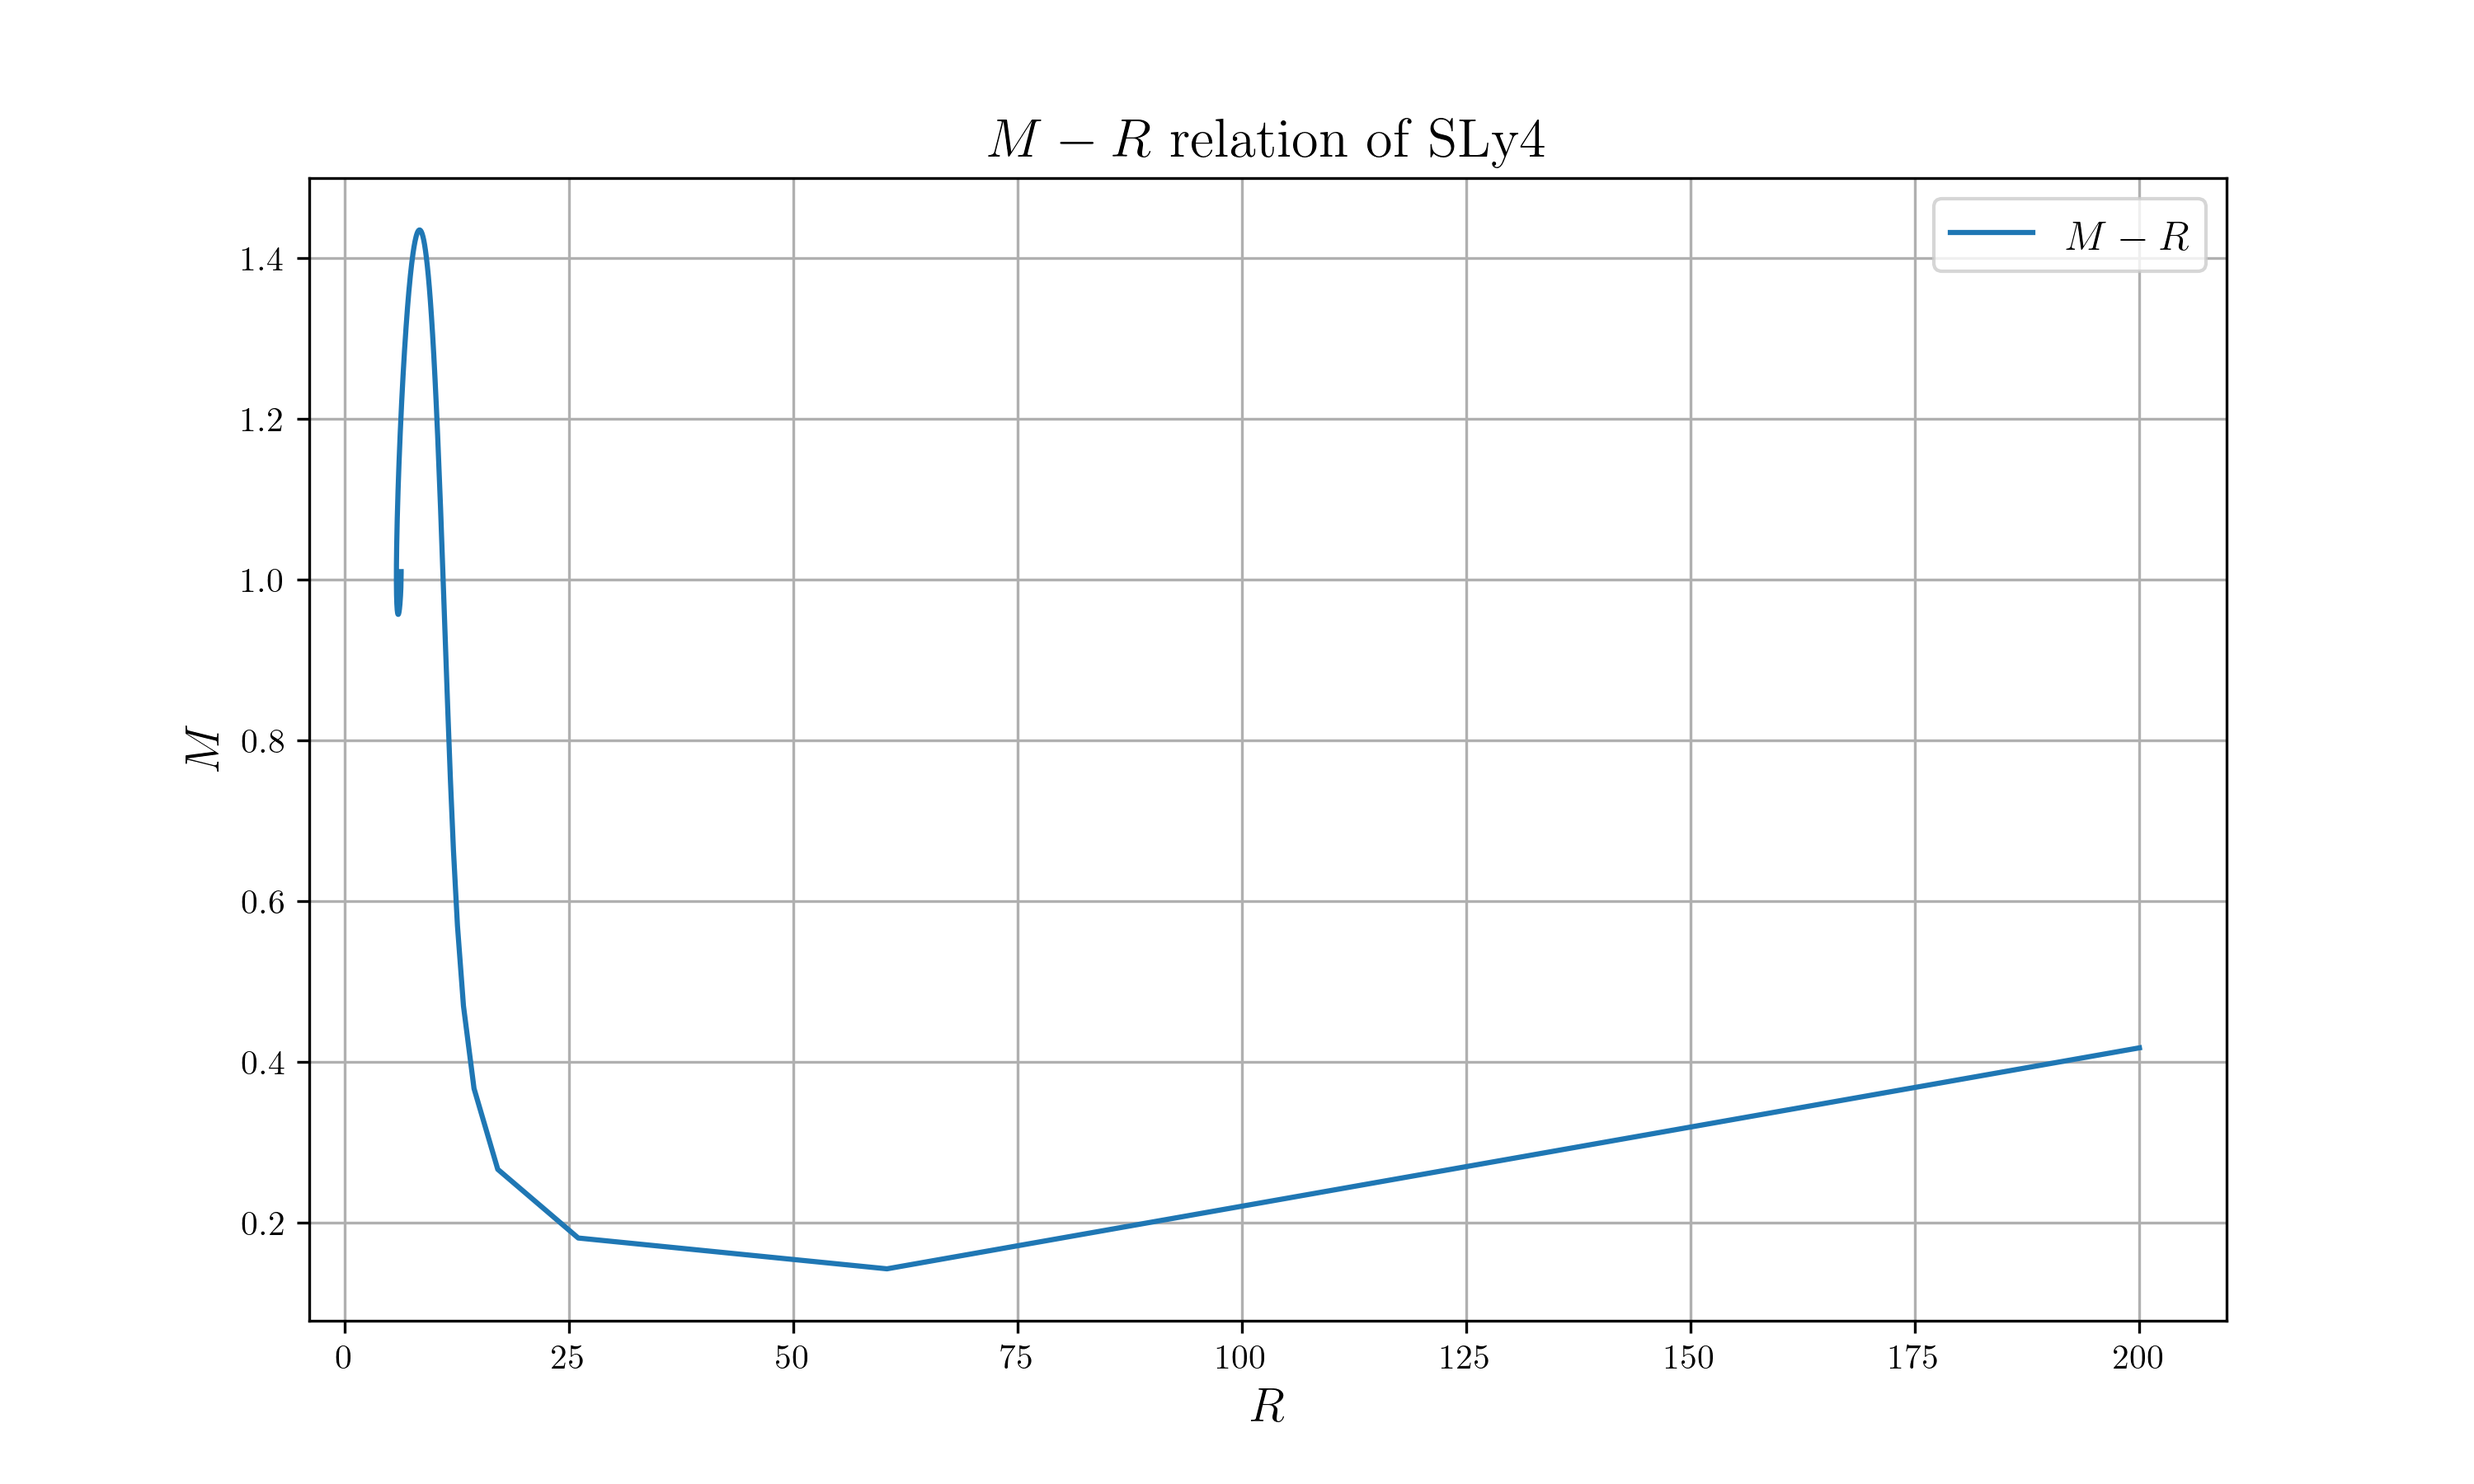
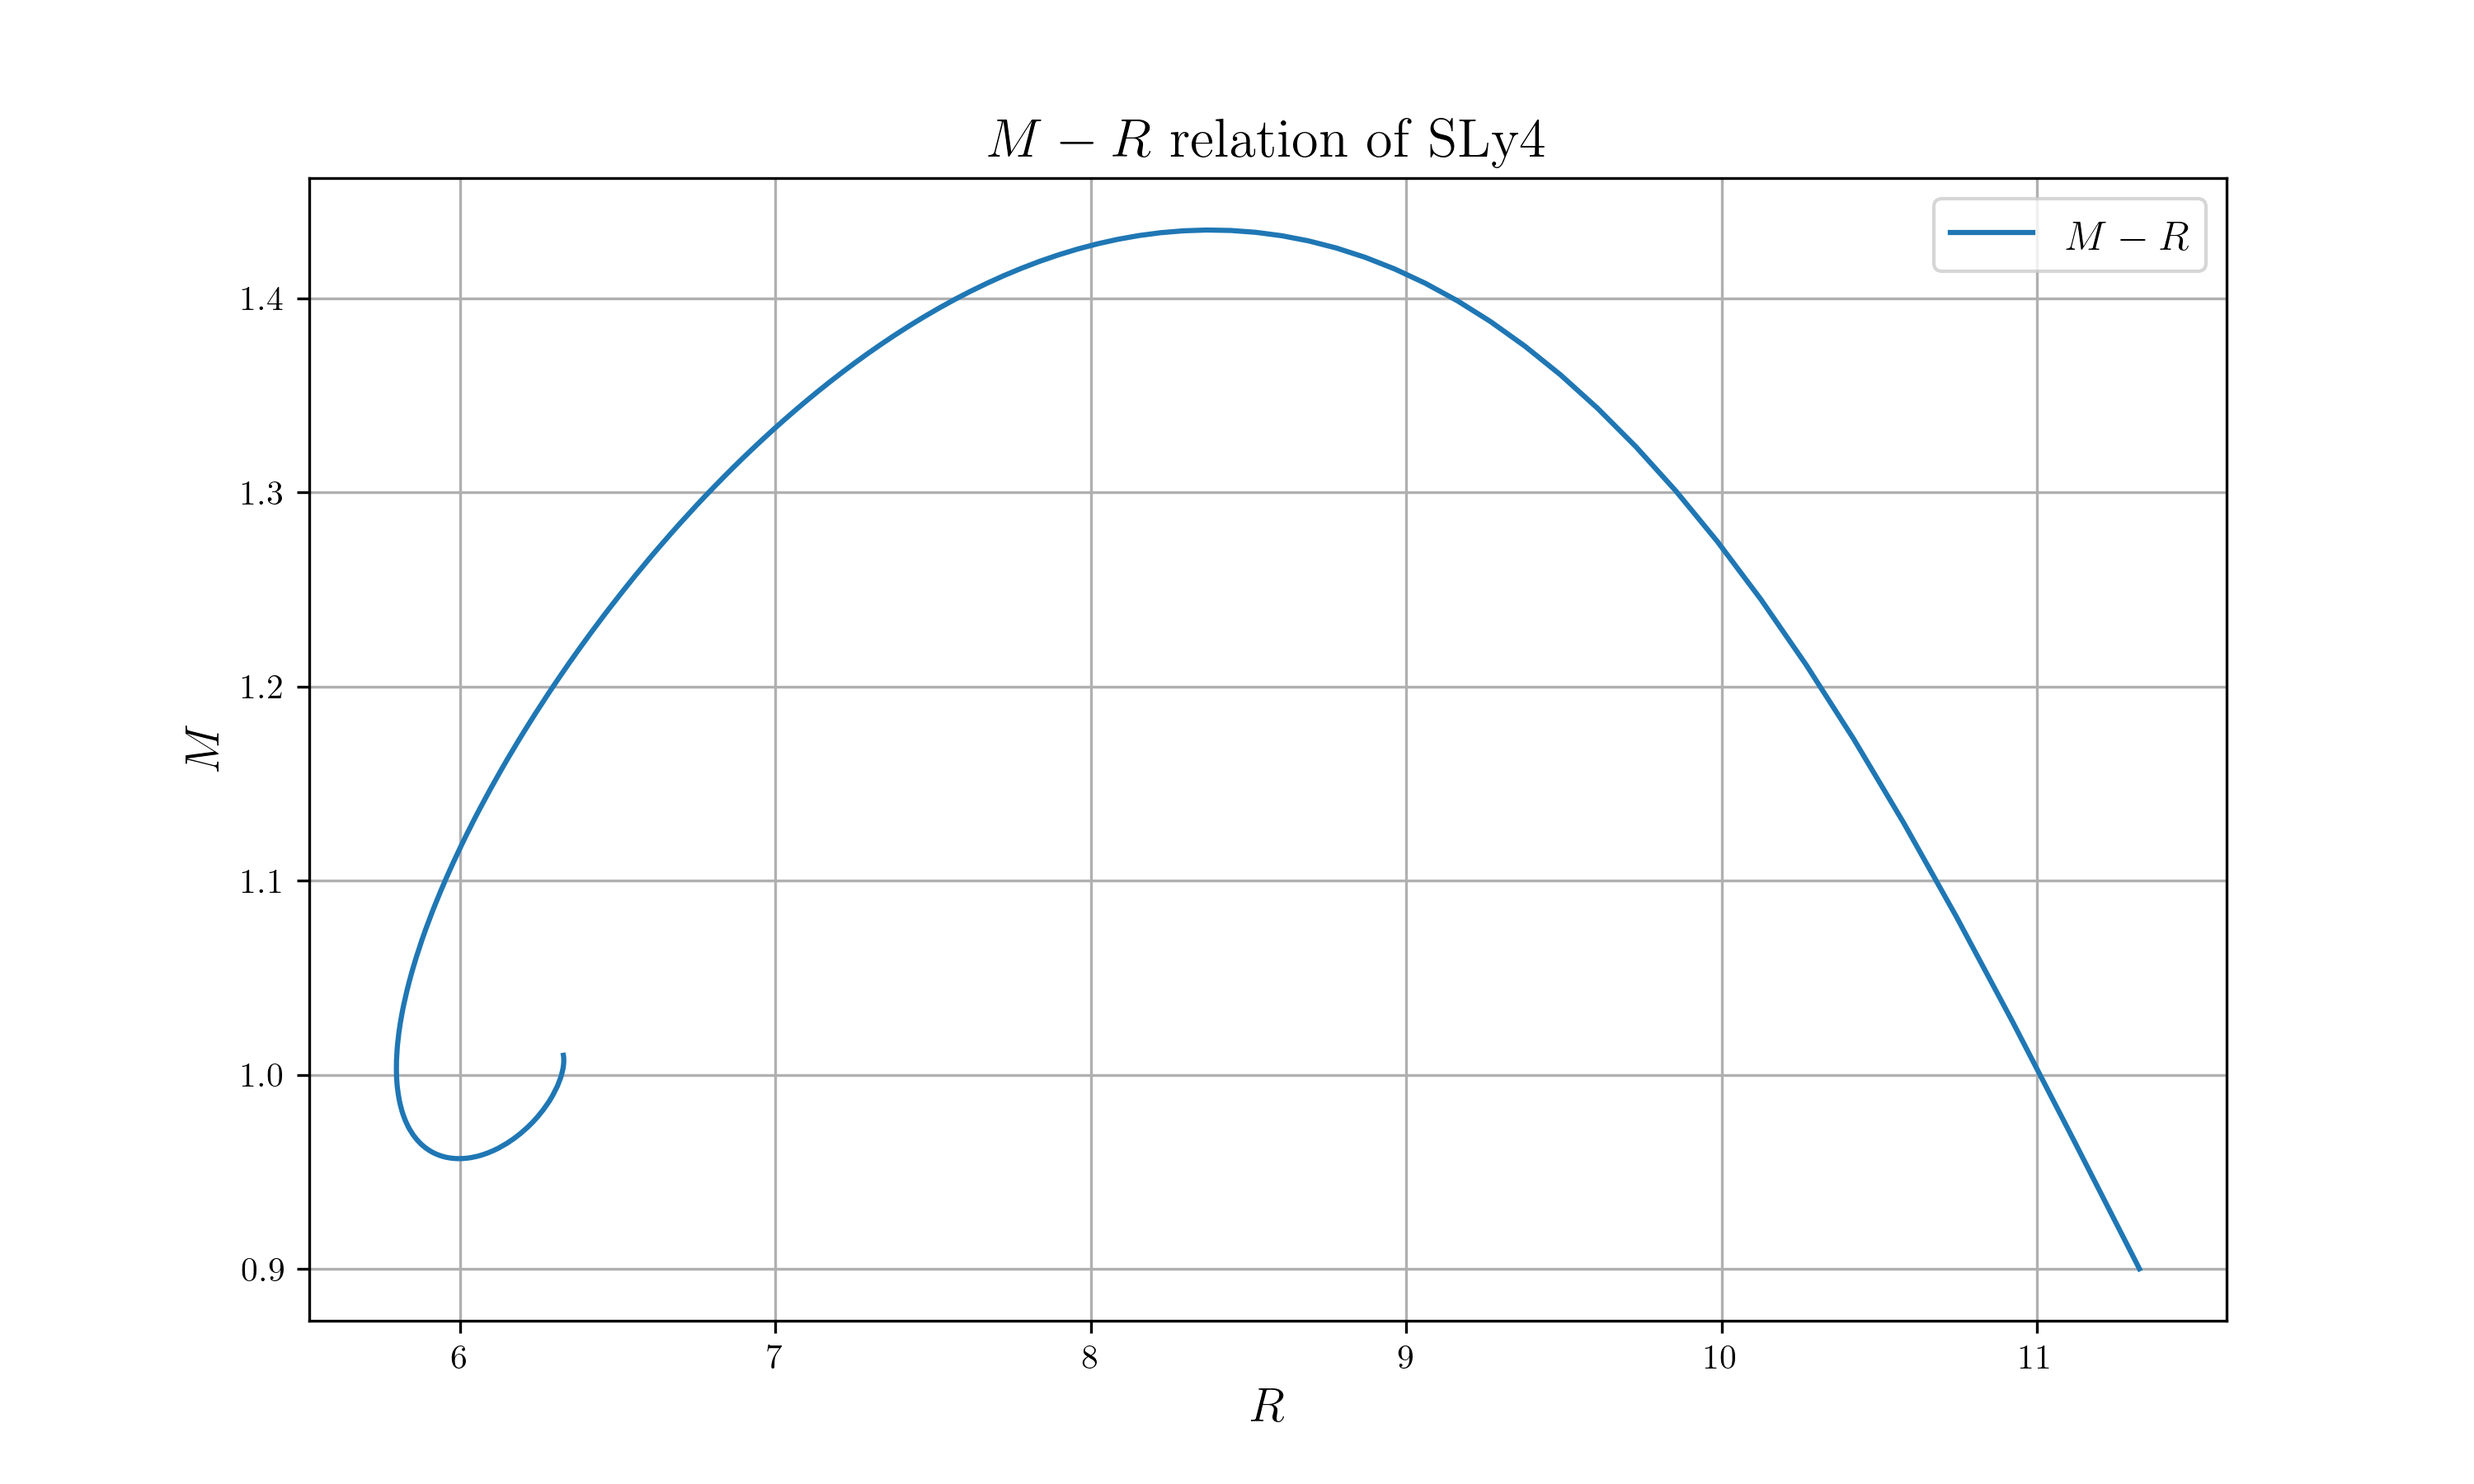
15 to 17

diff --git a/src/bin/sly4_mr.rs b/src/bin/sly4_mr.rs
@@ -56,7 +56,7 @@ fn main() {
 
     let results = (0..SIZE).into_par_iter().map(|idx| {
         // Set Initial Conditions
-        let rho_c = convert(1E+13f64 + (idx as f64) * (1e+17 - 1e+13) / 1000f64, Density, cgs_to_geom);
+        let rho_c = convert(1E+15f64 + (idx as f64) * (1e+17 - 1e+15) / 1000f64, Density, cgs_to_geom);
         let r_step = convert(10_000_00f64, Length, cgs_to_geom);
         let m_c = 0f64;
         let init_state = State::<f64>::new(0f64, vec![m_c, rho_c], vec![0f64; 2]);
